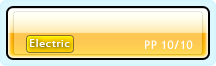
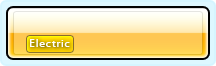
change formes of castform and cherrim in battle + battle window style changes + electric buttons redo
git-svn-id: https://pogeymon-online.svn.sourceforge.net/svnroot/pogeymon-online@456 a74332b3-73ba-4bb2-a0e2-b824b54a0f6f

Changed region(s): [[0.6667, 0.6061, 0.9167, 0.7576]]

diff --git a/bin/db/default.css b/bin/db/default.css
@@ -146,13 +146,15 @@ PokemonBox {
 
 
 QProgressBar#TimeOut {
+	font-family: LCD;
+	font-weight: bold;
+	font-size: 12pt;
     border: 1px solid black;
 	width: 79;
 	height: 21;
-	background-color:white;
-	font-weight:bold;
+	background-color:black;
 	text-align: center;
-	color: black;
+	color: white;
 	border-radius: 7px;
 }
 
@@ -183,12 +185,16 @@ BaseBattleWindow QLabel#TrainerNick {
 }
 
 BaseBattleWindow QLabel#PokemonNick {
-	font-family: Comic Sans MS;
+text-transform: uppercase;
+font-variant: small-caps; 
+	font-weight: bold;
+   font-family: Arial Rounded MT;
 	font-size: 10pt;
 }
 
 BaseBattleWindow QLabel#PokemonLevel {
-	font-family: Comic Sans MS;
+	font-weight: bold;
+  font-family: Arial Rounded MT;
 	font-size: 8pt;
 }
 

diff --git a/src/Server/abilities.cpp b/src/Server/abilities.cpp
@@ -340,6 +340,16 @@ struct AMFlashFire : public AM {
 struct AMFlowerGift : public AM {
     AMFlowerGift() {
         functions["StatModifier"] = &sm;
+        functions["UponSetup"] = &us;
+        functions["WeatherChange"] = &us;
+    }
+
+    static void us(int s, int, BS &b) {
+        if (b.weather() == BS::Sunny) {
+            if (b.forme(s) != 1) b.changeAForme(s, 1);
+        } else {
+            if (b.forme(s) != 0) b.changeAForme(s, 0);
+        }
     }
 
     static void sm(int s, int, BS &b) {
@@ -359,12 +369,19 @@ struct AMForeCast : public AM {
     static void us(int s, int, BS &b) {
         int tp = TypeInfo::TypeForWeather(b.weather());
 
+        /* Only those weathers work */
+        if (tp != Type::Ice && tp != Type::Fire && tp != Type::Water) {
+            tp = Type::Normal;
+        }
+
         if (poke(b,s)["Type2"].toInt() == Pokemon::Curse && tp == poke(b,s)["Type1"].toInt()) {
             return;
         }
         b.sendAbMessage(21,0,s,s,tp);
         poke(b,s)["Type1"] = tp;
         poke(b,s)["Type2"] = Pokemon::Curse;
+
+        b.changeAForme(s, tp == Type::Normal ? 0 : b.weather());
     }
 };
 

diff --git a/src/Server/battle.h b/src/Server/battle.h
@@ -129,7 +129,7 @@ public:
     void inflictPercentDamage(int player, int percent, int source, bool straightattack = false);
     void inflictSubDamage(int player, int damage, int source);
     void disposeItem(int player);
-    void eatBerry(int player, bool show=false);
+    void eatBerry(int player, bool show=true);
     void acqItem(int player, int item);
     void loseItem(int player);
     /* Removes PP.. */
